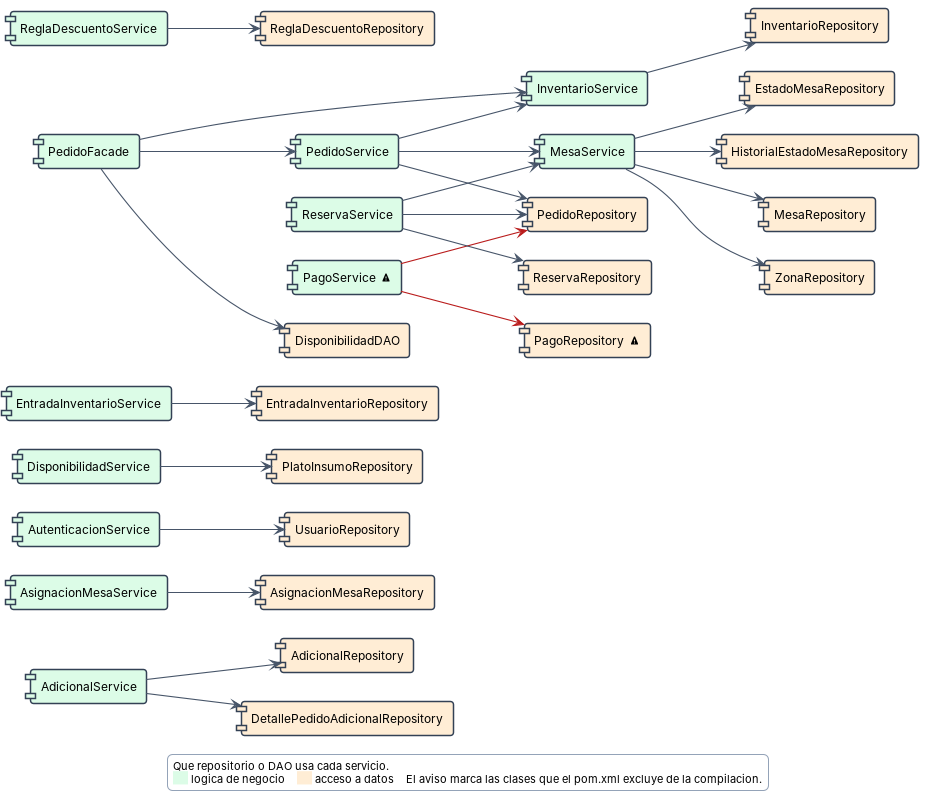
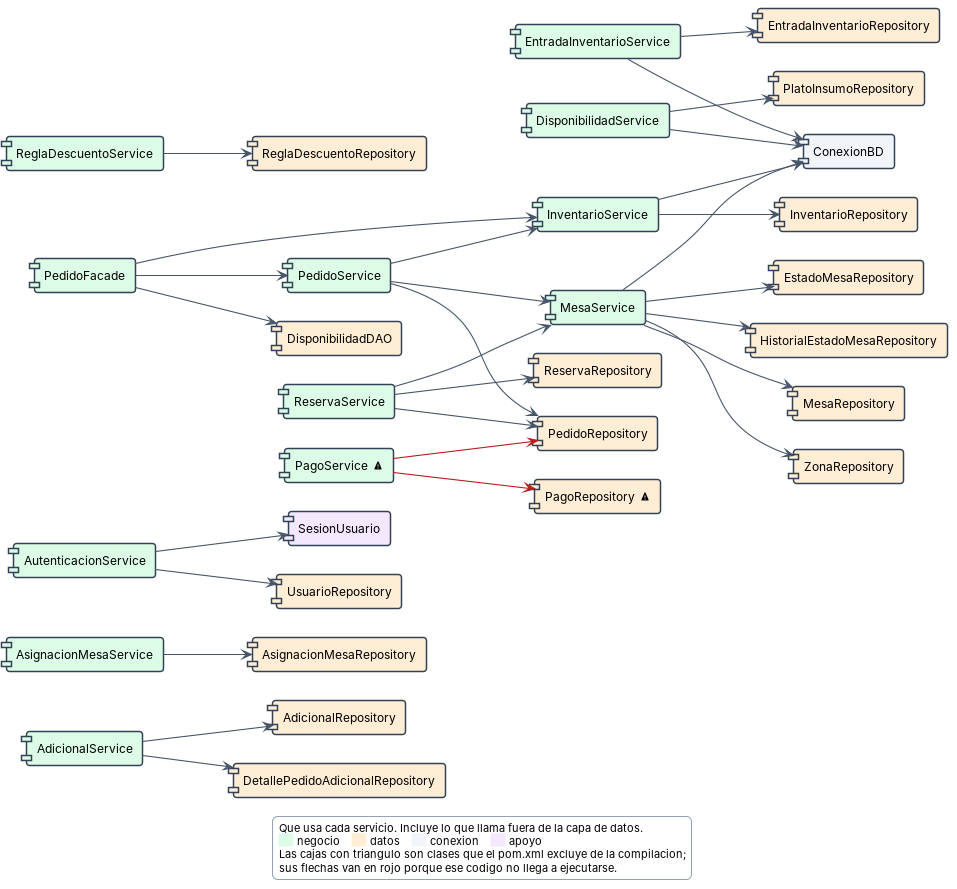
docs: corrige los componentes simples y una caja fantasma en el general
Revision de los cuatro diagramas simples contra el codigo. Lo corregido:

- 10_Simple_UI se dejaba fuera las dos dependencias de una pantalla a otra
  (Main hacia LoginController y MapaSalonController hacia MenuMeseroController).
  Pasa de 15 a 17 flechas, las mismas que el detallado.
- 11_Simple_Negocio solo dibujaba lo que el negocio llama a la capa de datos,
  y escondia que cuatro servicios abren su propia conexion JDBC saltandose
  esa capa. Pasa de 23 a 28 flechas.
- 09_Simple_Capas rotulaba las flechas como "llamadas" cuando el numero son
  operaciones distintas por pareja de componentes, que es lo que dice su
  leyenda y lo que rotula el detallado.
- 12_Simple_Apoyo metia ConexionBD bajo el titulo "Apoyo transversal", en
  contra de 09, que la cuenta como capa aparte.
- El rojo de 11 no estaba en la leyenda y se aplicaba tambien cuando el
  destino estaba excluido del pom. Ahora marca solo las flechas cuyo origen
  no compila, y la leyenda lo explica.

Ademas, en el detallado 01 la flecha hacia la base de datos usaba un alias
"infra" que nunca se declaraba, asi que PlantUML dibujaba una caja suelta con
ese nombre. Y las cajas de una sola pieza decian "1 componentes".

diff --git a/docs/diagramas-fuente/herramientas/gen_componentes_simple.py b/docs/diagramas-fuente/herramientas/gen_componentes_simple.py
@@ -92,10 +92,11 @@ for c in ORDEN:
     L.append(f'component "**{NOMBRE[c]}**\\n<size:10>{n} '
              f'componente{"s" if n != 1 else ""}</size>" as k_{c} {COLOR[c]}')
 for (a, b), n in sorted(entre.items(), key=lambda x: -x[1]):
-    L.append(f'k_{a} --> k_{b} : {n} llamadas')
+    L.append(f'k_{a} --> k_{b} : {n} operaciones')
 L += ['legend bottom',
       'Cada caja es una capa y cada flecha una dependencia real entre capas.',
-      'El numero son las operaciones distintas que se invocan a traves de ella.',
+      'El numero suma, por cada pareja de componentes, cuantas operaciones',
+      'distintas le llama uno al otro.',
       'endlegend']
 escribe('09_Simple_Capas.puml', L)
 
@@ -103,27 +104,31 @@ escribe('09_Simple_Capas.puml', L)
 L = cab('ui', 'left to right direction')
 # sin cajas de paquete, por lo mismo que en el de negocio: el color dice la
 # capa y las flechas salen mucho mas cortas
-uis = sorted(n for n, c in COMP.items() if c == 'ui'
-             and any(o == n and COMP[d] != 'ui' for (o, d) in dep))
+par_ui = [(o, d) for (o, d) in dep if COMP[o] == 'ui']
+uis = sorted({o for (o, d) in par_ui} | {d for (o, d) in par_ui if COMP[d] == 'ui'})
 for nom in uis:
     L.append(caja(nom).replace('#FFFFFF', COLOR['ui']))
-destinos = sorted({d for (o, d) in dep if COMP[o] == 'ui' and COMP[d] != 'ui'},
+destinos = sorted({d for (o, d) in par_ui if COMP[d] != 'ui'},
                   key=lambda x: (ORDEN.index(COMP[x]), x))
 for d in destinos:
     L.append(caja(d).replace('#FFFFFF', COLOR[COMP[d]]))
-for (o, d) in sorted(dep):
-    if COMP[o] == 'ui' and COMP[d] != 'ui':
-        L.append(f'{al(o)} --> {al(d)}')
+for (o, d) in sorted(par_ui):
+    L.append(f'{al(o)} --> {al(d)}')
 sin_salida = sorted(n for n, c in COMP.items() if c == 'ui' and n not in uis)
 L += ['legend bottom',
       'Que usa cada pantalla.',
+      'Incluye las dependencias de una pantalla a otra.',
       '<back:#DBEAFE>     </back> interfaz    '
       '<back:#DCFCE7>     </back> negocio    '
       '<back:#FFEDD5>     </back> datos    '
-      '<back:#F3E8FF>     </back> apoyo    '
-      '<back:#F1F5F9>     </back> conexion',
-      ('No aparecen ' + ', '.join(sin_salida) + ': no llaman a ninguna otra capa.'
-       if sin_salida else ''),
+      '<back:#F3E8FF>     </back> apoyo',
+      'endlegend'] if not sin_salida else ['legend bottom',
+      'Que usa cada pantalla. Incluye las dependencias de una pantalla a otra.',
+      '<back:#DBEAFE>     </back> interfaz    '
+      '<back:#DCFCE7>     </back> negocio    '
+      '<back:#FFEDD5>     </back> datos    '
+      '<back:#F3E8FF>     </back> apoyo',
+      'No aparecen ' + ', '.join(sin_salida) + ': no llaman a nadie.',
       'endlegend']
 escribe('10_Simple_UI.puml', L)
 
@@ -131,15 +136,17 @@ escribe('10_Simple_UI.puml', L)
 L = cab('negocio', 'left to right direction')
 # solo los que participan en una dependencia negocio -> algo: un
 # repositorio que solo usa la interfaz no pinta nada en esta vista
-par_neg = [(o, d) for (o, d) in dep
-           if COMP[o] == 'negocio' and COMP[d] in ('negocio', 'datos')]
+# todo lo que llama el negocio, no solo datos: cuatro servicios abren su
+# propia conexion JDBC saltandose la capa de datos, y eso es lo que mas
+# interesa ver de esta capa
+par_neg = [(o, d) for (o, d) in dep if COMP[o] == 'negocio']
 vivos = {x for par in par_neg for x in par}
 # se declaran emparejados: cada servicio y, justo despues, el repositorio
 # que usa. Asi graphviz los coloca enfrentados y las flechas salen cortas
 servicios = sorted(n for n, c in COMP.items() if c == 'negocio' and n in vivos)
 orden_datos, puestos = [], set()
 for sv in servicios:
-    for d in sorted(d for (o, d) in par_neg if o == sv and COMP[d] == 'datos'):
+    for d in sorted(d for (o, d) in par_neg if o == sv and COMP[d] != 'negocio'):
         if d not in puestos:
             puestos.add(d)
             orden_datos.append(d)
@@ -148,15 +155,19 @@ for sv in servicios:
 for nom in servicios:
     L.append(caja(nom).replace('#FFFFFF', COLOR['negocio']))
 for nom in orden_datos:
-    L.append(caja(nom).replace('#FFFFFF', COLOR['datos']))
+    L.append(caja(nom).replace('#FFFFFF', COLOR[COMP[nom]]))
 for (o, d) in sorted(par_neg):
-    est = '#B91C1C' if o in EXCL or d in EXCL else '#475569'
-    L.append(f'{al(o)} -[{est}]-> {al(d)}')
+    muerta = o in EXCL          # si el origen no compila, la flecha no corre
+    L.append(f'{al(o)} -[{"#B91C1C" if muerta else "#475569"}]-> {al(d)}')
 L += ['legend bottom',
-      'Que repositorio o DAO usa cada servicio.',
-      '<back:#DCFCE7>     </back> logica de negocio    '
-      '<back:#FFEDD5>     </back> acceso a datos    '
-      'El aviso marca las clases que el pom.xml excluye de la compilacion.',
+      'Que usa cada servicio. Incluye lo que llama fuera de la capa de datos.',
+      '<back:#DCFCE7>     </back> negocio    '
+      '<back:#FFEDD5>     </back> datos    '
+      '<back:#F1F5F9>     </back> conexion    '
+      '<back:#F3E8FF>     </back> apoyo',
+      'Las cajas con triangulo son clases que el pom.xml excluye de la '
+      'compilacion;',
+      'sus flechas van en rojo porque ese codigo no llega a ejecutarse.',
       'endlegend']
 escribe('11_Simple_Negocio.puml', L)
 
@@ -164,9 +175,9 @@ escribe('11_Simple_Negocio.puml', L)
 # aqui las flechas una a una serian 31: se agrupan por capa de origen
 L = cab('apoyo')
 apoyos = sorted(n for n, c in COMP.items() if c in ('apoyo', 'conexion'))
-L.append('package "Apoyo transversal" as p4 #F3E8FF {')
+L.append('package "Piezas compartidas · apoyo y conexion" as p4 #FFFFFF {')
 for n in apoyos:
-    L.append(caja(n))
+    L.append(caja(n).replace('#FFFFFF', COLOR[COMP[n]]))
 L.append('}')
 por_capa = collections.defaultdict(lambda: collections.defaultdict(set))
 for (o, d), ms in dep.items():
@@ -182,8 +193,9 @@ for d in apoyos:
     for c, quienes in sorted(por_capa[d].items(), key=lambda x: ORDEN.index(x[0])):
         L.append(f'q_{c} --> {al(d)} : {len(quienes)}')
 L += ['legend bottom',
-      'Las tres piezas que usa todo el sistema. Para que se lea, los',
-      'consumidores van agrupados por capa y el numero dice cuantos son.',
+      'Las piezas que no pertenecen a ninguna capa. El numero de cada flecha',
+      'dice cuantos componentes de esa capa las usan. ConexionBD la usa casi',
+      'todo el sistema; SesionUsuario y TextoBusqueda solo unos pocos.',
       'endlegend']
 escribe('12_Simple_Apoyo.puml', L)
 

diff --git a/docs/diagramas-fuente/herramientas/verificar_componentes.py b/docs/diagramas-fuente/herramientas/verificar_componentes.py
@@ -41,9 +41,10 @@ dib = set(re.findall(r'component "\*\*(\w+)\*\*', TODO))
 ok(set(COMPONENTES) <= dib,
    f'los {len(COMPONENTES)} componentes aparecen '
    f'(faltan {sorted(set(COMPONENTES) - dib) or "ninguno"})')
-# en 01 los cuatro subsistemas se dibujan como un componente agregado
-SUBS = set(re.findall(r'component "\*\*([^*]+)\*\*\\n<size:10>\d+ componentes',
-                      D['01_Componentes_general.puml']))
+# las cajas agregadas de capa (en 01 y en los simples 09 y 12) no son
+# clases: llevan "N componente(s)" debajo del nombre
+SUBS = set(re.findall(r'component "\*\*([^*]+)\*\*\\n<size:10>\d+ '
+                      r'componentes?</size>', TODO))
 # el diagrama 08 dibuja como componente las clases que importan Spring o
 # Jakarta, aunque sean de entity: son tipos reales del codigo
 SPRING = {t['nombre'] for t in T}
@@ -177,7 +178,9 @@ PERM = set('''startuml enduml allowmixing skinparam backgroundcolor shadowing
  capa cada caja flecha dependencia real entre numero distintas
  invocan traves ella detalle esta diagrama aviso marca clases
  excluye piezas usa todo sistema para lea consumidores agrupados
- dice cuantos son pantalla aparecen llaman otra
+ dice cuantos son pantalla aparecen llaman otra compartidas
+ pertenecen ninguna casi todo pocos triangulo rojo ejecutarse
+ incluye fuera llega codigo ese sus
  fuera subsistema archivos raiz modulos nombre true false'''.split())
 # la leyenda es explicacion en castellano y los alias "as X" son nombres
 # internos que yo elijo: lo que tiene que salir del repositorio es el texto

diff --git a/docs/diagramas-fuente/herramientas/gen_componentes_puml.py b/docs/diagramas-fuente/herramientas/gen_componentes_puml.py
@@ -166,11 +166,13 @@ NOMBRE_SUB = {'ui': 'Interfaz de usuario · controller + Main',
               'apoyo': 'Apoyo transversal · session + util'}
 for s in ('ui', 'negocio', 'datos', 'conexion', 'apoyo'):
     L.append(f'component "**{NOMBRE_SUB[s]}**\\n'
-             f'<size:10>{cuantos[s]} componentes</size>" as {s} {COLOR[s]}')
+             f'<size:10>{cuantos[s]} '
+             f'componente{"s" if cuantos[s] != 1 else ""}</size>" '
+             f'as {s} {COLOR[s]}')
 L.append(f'database "**gastroflow**\\n<size:10>{len(E)} tablas</size>" as bd #FFFFFF')
 for (a, b), n in sorted(entre.items()):
     L.append(f'{a} ..> {b} : <<use>> {n} operaciones')
-L.append(f'infra ..> bd : JDBC')
+L.append('conexion ..> bd : JDBC')   # el alias es conexion, no infra
 L.append('@enduml')
 open(f'{DIR}/01_Componentes_general.puml', 'w', encoding='utf-8').write(
     '\n'.join(L) + '\n')
